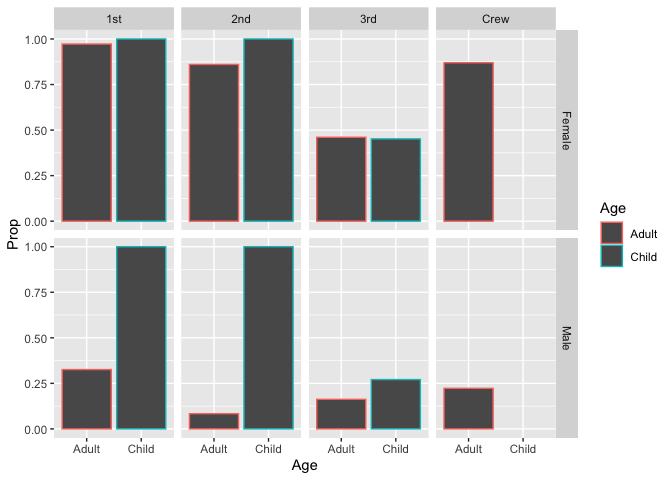
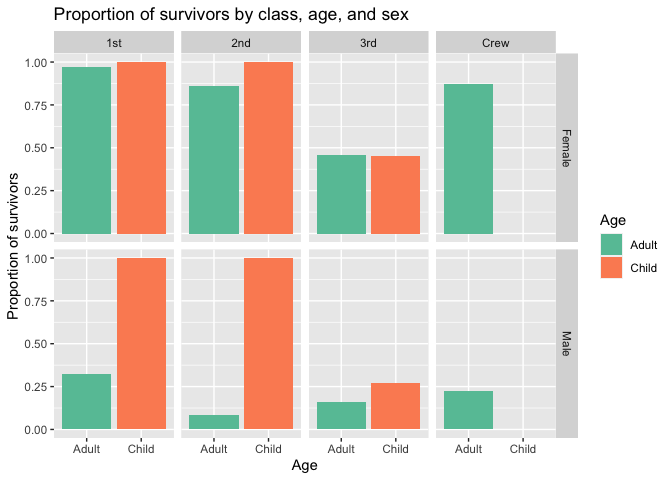
Titanic, complete 2nd draft

diff --git a/c01-titanic-assignment.md b/c01-titanic-assignment.md
@@ -6,6 +6,7 @@ Angela Sharer
   - [First Look](#first-look)
   - [Deeper Look](#deeper-look)
       - [Conclusions](#conclusions)
+      - [Appendix](#appendix)
       - [Purpose and Reading](#purpose-and-reading)
   - [Grading Rubric](#grading-rubric)
       - [Individual](#individual)
@@ -164,7 +165,7 @@ df_titanic %>%
     geom_col(mapping = aes(x = Class, y = n, fill = Sex), position = "fill") +
     labs(
       title = "Proportion of the sexes among survivors of each class", 
-      y = "Proportion of survivors per class"
+      y = "Proportion of survivors"
     )
 ```
 
@@ -183,7 +184,7 @@ df_titanic %>%
     geom_col(mapping = aes(x = Sex, y = n, fill = Class), position = "fill") +
     labs(
       title = "Proportion of class among survivors of each sex", 
-      y = "Proportion of survivors per sex"
+      y = "Proportion of survivors"
     )
 ```
 
@@ -286,7 +287,11 @@ df_prop %>%
       mapping = aes(x = Class, y = Prop, fill = Sex), 
       position = "dodge"
     ) +
-    facet_grid(. ~ Age)
+    facet_grid(. ~ Age) +
+    labs(
+      title = "Proportion of survivors by age, class, and sex", 
+      y = "Proportion of survivors"
+    )
 ```
 
 ![](c01-titanic-assignment_files/figure-gfm/q5-task%20survivors%20by%20class,%20sex,%20and%20age,%202%20x%201%20grid-1.png)<!-- -->
@@ -303,7 +308,11 @@ df_prop %>%
   filter(Survived == "Yes", !is.na(Prop)) %>%
   ggplot() +
     geom_col(mapping = aes(x = Sex, y = Prop, fill = Sex), position = "dodge") +
-    facet_grid(Class ~ Age)
+    facet_grid(Class ~ Age) +
+    labs(
+      title = "Proportion of survivors by age, sex, and class", 
+      y = "Proportion of survivors"
+    )
 ```
 
 ![](c01-titanic-assignment_files/figure-gfm/q5-task%20survivors%20by%20class,%20sex,%20and%20age,%202%20x%204%20grid-1.png)<!-- -->
@@ -321,10 +330,15 @@ df_prop %>%
   filter(Survived == "Yes", !is.na(Prop)) %>%
   ggplot() +
     geom_col(
-      mapping = aes(x = Age, y = Prop, color = Age), 
+      mapping = aes(x = Age, y = Prop, fill = Age), 
       position = "dodge"
     ) +
-    facet_grid(Sex ~ Class)
+    facet_grid(Sex ~ Class) +
+    scale_fill_brewer(palette="Set2") +
+    labs(
+      title = "Proportion of survivors by class, age, and sex", 
+      y = "Proportion of survivors"
+    )
 ```
 
 ![](c01-titanic-assignment_files/figure-gfm/q5-task%20survivors%20by%20class,%20sex,%20and%20age,%202%20x%204%20grid%20focused%20on%20age%20comparisons-1.png)<!-- -->
@@ -358,6 +372,73 @@ df_prop %>%
     of how catastrophic events always hit the poor the hardest. The
     children’s survival rates in 3rd class were abysmal, and perfect or
     nearly perfect in 1st and 2nd class. This is tragic.
+
+## Appendix
+
+More filtered versions of the above graphs, to support our team
+observations in a more targeted manner.
+
+``` r
+df_prop %>%
+  filter(Survived == "Yes", Age == "Child", !is.na(Prop)) %>%
+  ggplot() +
+    geom_col(
+      mapping = aes(x = Class, y = Prop, fill = Sex), 
+      position = "dodge"
+    ) +
+    labs(
+      title = "Proportion of children who survived by class and sex", 
+      y = "Proportion of children who survived"
+    )
+```
+
+![](c01-titanic-assignment_files/figure-gfm/q5-task%20child%20survivors%20by%20class,%20sex-1.png)<!-- -->
+
+``` r
+df_prop %>%
+  filter(Survived == "Yes", Age == "Adult", !is.na(Prop)) %>%
+  ggplot() +
+    geom_col(mapping = aes(x = Sex, y = Prop, fill = Sex), position = "dodge") +
+    facet_grid(. ~ Class) +
+    labs(
+      title = "Proportion of adult survivors by sex and class", 
+      y = "Proportion of survivors"
+    )
+```
+
+![](c01-titanic-assignment_files/figure-gfm/q5-task%20adult%20survivors%20by%20class,%20sex-1.png)<!-- -->
+
+``` r
+df_prop %>%
+  filter(Survived == "Yes", Age == "Adult", Class != "Crew", !is.na(Prop)) %>%
+  ggplot() +
+    geom_col(mapping = aes(x = Sex, y = Prop, fill = Sex), position = "dodge") +
+    facet_grid(. ~ Class) +
+    labs(
+      title = "Proportion of surviving adult passengers by sex and class", 
+      y = "Proportion of survivors"
+    )
+```
+
+![](c01-titanic-assignment_files/figure-gfm/q5-task%20adult%20passenger%20survivors%20by%20class,%20sex-1.png)<!-- -->
+
+``` r
+df_prop %>%
+  filter(Survived == "Yes", Class != "Crew", !is.na(Prop)) %>%
+  ggplot() +
+    geom_col(
+      mapping = aes(x = Age, y = Prop, fill = Age), 
+      position = "dodge"
+    ) +
+    facet_grid(Sex ~ Class) +
+    scale_fill_brewer(palette="Set2") +
+    labs(
+      title = "Proportion of surviving passengers by class, age, and sex", 
+      y = "Proportion of survivors"
+    )
+```
+
+![](c01-titanic-assignment_files/figure-gfm/q5-task%20passenger%20survivors%20by%20class,%20sex,%20and%20age,%202%20x%203%20grid%20focused%20on%20age%20comparisons-1.png)<!-- -->
 
 ## Purpose and Reading
 
